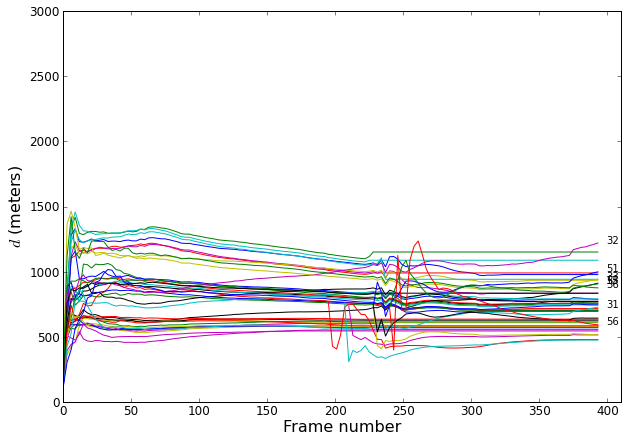
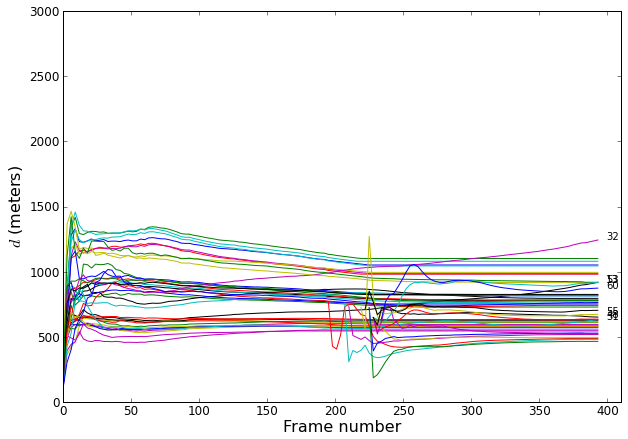
replot some figure, added a small section in chapter 5 for tracking error.

Changed region(s): [[0.5748, 0.533, 0.9984, 0.8588]]

diff --git a/Thesis/chapter5.tex b/Thesis/chapter5.tex
@@ -16,25 +16,59 @@ coordinate. $\phi$ and $\theta$ were calculated directly from the
 feature position on image plane, have high accuracy and don't require
 convergence. The only parameter that goes through a converging process
 is the features' inverse depth $\rho$, which were initialized to 0.1
-for all features. Figure \ref{fltfig:1} shows the $1/\rho$ plot for
-the entire 40 frames. The depth estimators went through rapid changes
-for several frames after their initialization. Within approximate 20
-frames, most estimators settles to a stable value. Sharp spike in the
-middle of the tracking is due to feature added into filter. The
-estimated features distance ranged from 400 meters to about 1200
-meters, confirming the algorithm's capability for estimating features
-at great distance. On the other hands, some features take a long time
-to settle, while some other never settled and drift away as tracking
-continues, such as feature 32.
+for all features. 
+
+Figure \ref{fltfig:1} shows the $1/\rho$ plot for the entire 400
+frames. Features ID was shown on the right side of the plot for the
+features whose values were still changing rapidly. The depth
+estimators went through rapid changes for several frames after their
+initialization. Within approximate 20 frames, most estimators settles
+to a stable value. Sharp spike in the middle of the tracking is due to
+feature added into filter. The estimated features distance ranged from
+400 meters to about 1200 meters, confirming the algorithm's capability
+for estimating features at great distance. On the other hands, some
+features take a long time to settle, while some other never settled
+and drift away as tracking continues, such as feature 32, 13, and 53.
 % is the non and slowly settled feature has any character in its
 % pattern? ie. is a line feature, instead of corner? A outlier filter
 % should be in place to get rid of the poor features (future work).
 
 \begin{figure}[h]
 \centering
-\includegraphics[width=10cm, keepaspectratio=true]{./Figures/fltfig/cut1/Figure10.png}
+\includegraphics[width=12cm, keepaspectratio=true]{./Figures/fltfig/cut1/Figure10.png}
 \caption{Inverse Depth Convergence}
 \label{fltfig:1}
+\end{figure}
+
+As an example, pattern of feature 13 at frame 50, 100, 150, 200, 250,
+300, 350 and 400 are shown in figure \ref{fltfig:1_1}. It can be seen
+that the initial feature was detected at the edge of a hill top. As
+frame number advances, the view the camera becomes different. As the
+pattern comparison in tracking algorithm allows for a small error at
+each iteration, this error accumulate slowly and eventually the
+tracked target becomes a pattern located at a different location and
+causing the estimated depth change slowly. 
+
+\begin{figure}[h]
+\centering
+\includegraphics[width=3cm,
+keepaspectratio=true]{./Figures/fltfig/cut1/features/uav2_cut1_050_fID13.jpg}
+\includegraphics[width=3cm,
+keepaspectratio=true]{./Figures/fltfig/cut1/features/uav2_cut1_100_fID13.jpg}
+\includegraphics[width=3cm,
+keepaspectratio=true]{./Figures/fltfig/cut1/features/uav2_cut1_150_fID13.jpg}
+\includegraphics[width=3cm,
+keepaspectratio=true]{./Figures/fltfig/cut1/features/uav2_cut1_200_fID13.jpg}
+\includegraphics[width=3cm,
+keepaspectratio=true]{./Figures/fltfig/cut1/features/uav2_cut1_250_fID13.jpg}
+\includegraphics[width=3cm,
+keepaspectratio=true]{./Figures/fltfig/cut1/features/uav2_cut1_300_fID13.jpg}
+\includegraphics[width=3cm,
+keepaspectratio=true]{./Figures/fltfig/cut1/features/uav2_cut1_350_fID13.jpg}
+\includegraphics[width=3cm,
+keepaspectratio=true]{./Figures/fltfig/cut1/features/uav2_cut1_397_fID13.jpg}
+\caption{Feature 13 at frame 50, 100, 150, 200, 250, 300, 350, and 400}
+\label{fltfig:1_1}
 \end{figure}
 
 Although the features initialization point $[x_i, y_i, z_i]$, and the
